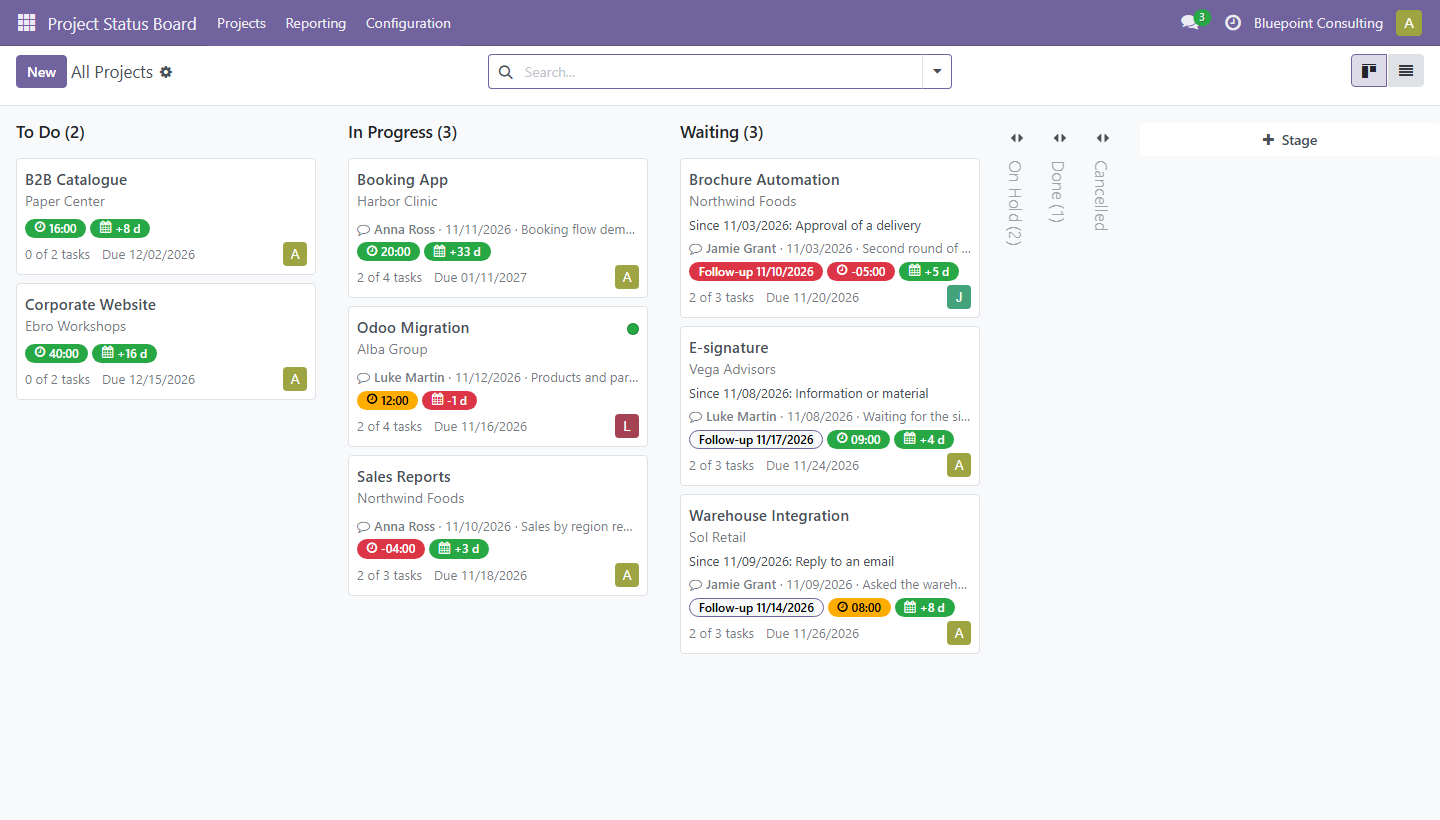
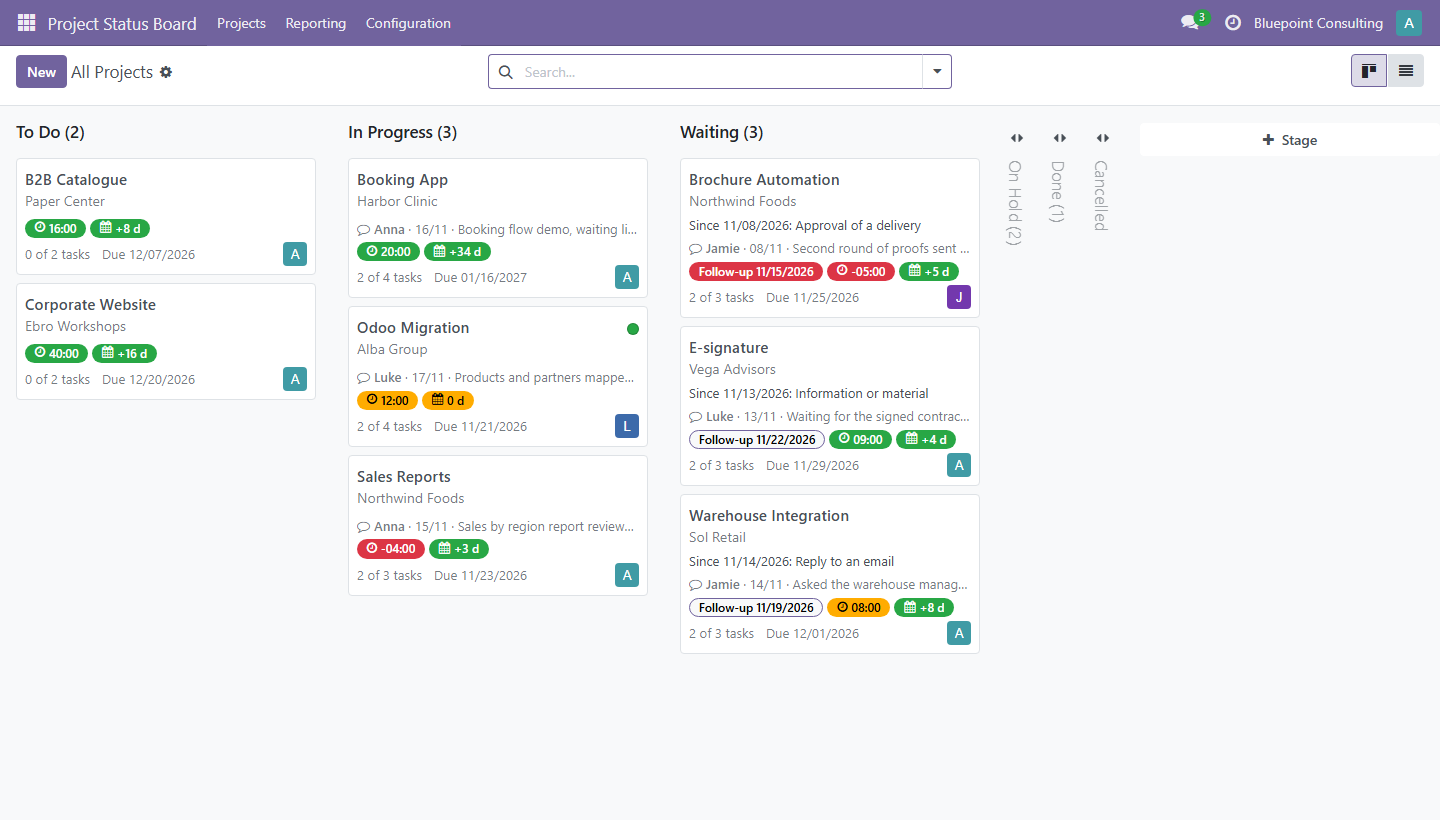
docs: ficha de la tienda con Cola por persona, Actividad del equipo y bolsas de horas (18.0)
Dos secciones nuevas en la ficha (Who is on what, con las capturas de Cola por persona y Actividad del equipo; Hour banks, con los filtros de exclusión) y el paso opcional de ajustes. Todas las capturas rehechas con las tarjetas actuales. Además, Actividad del equipo pone "51 min" en lugar de "0 h 51 min" con menos de una hora. Versión 18.0.0.1.8.

diff --git a/cimalor_project_status_board/static/description/index.html b/cimalor_project_status_board/static/description/index.html
@@ -157,6 +157,58 @@
 
 <section class="oe_container oe_dark">
   <div class="oe_row oe_spaced">
+    <div class="oe_span12" style="text-align: center">
+      <h2 class="oe_slogan">Who is on what, now and next</h2>
+      <p style="font-size: 16px; max-width: 760px; margin: 16px auto 0">
+        <em>Queue by Person</em> lays each person's queue on a time axis,
+        project by project, with the project's delivery date: red when their
+        part will end after it. No Gantt view, and no Enterprise module, needed.
+      </p>
+    </div>
+    <div class="oe_span12 oe_mt32">
+      <img
+        class="oe_picture oe_screenshot"
+        src="screenshot_queue.png"
+        alt="Queue by Person timeline with one row per project under each person and the delivery date of each project"
+      />
+    </div>
+    <div class="oe_span12 oe_mt32" style="text-align: center">
+      <p style="font-size: 16px; max-width: 760px; margin: 16px auto 0">
+        <em>Team Activity</em> shows what each person is on right now, from
+        their running timer, and the hours they logged by project over the last
+        five working days, each day against their capacity. A timer left running
+        since another day says since when.
+      </p>
+    </div>
+    <div class="oe_span12 oe_mt32">
+      <img
+        class="oe_picture oe_screenshot"
+        src="screenshot_activity.png"
+        alt="Team Activity with the running timer of each person and the hours logged by project over the last five working days"
+      />
+    </div>
+  </div>
+</section>
+
+<section class="oe_container">
+  <div class="oe_row oe_spaced">
+    <div class="oe_span12" style="text-align: center">
+      <h2 class="oe_slogan">Hour banks, kept apart</h2>
+      <p style="font-size: 16px; max-width: 760px; margin: 16px auto 0">
+        Two filters in <em>Settings › Project</em>.
+        <em>Excluded Projects</em> leaves projects such as internal ones out of
+        the boards, the reports and the workload. <em>Excluded Tasks</em> marks
+        the tasks that only hold an hour bank's balance: they never count as
+        work. Their project goes on hold by itself while no customer request is
+        open, back to <em>In Progress</em> with the next one, and its hours
+        margin counts the requests only.
+      </p>
+    </div>
+  </div>
+</section>
+
+<section class="oe_container oe_dark">
+  <div class="oe_row oe_spaced">
     <div class="oe_span6">
       <h2 class="oe_slogan" style="text-align: left">
         Your reasons, your words
@@ -196,7 +248,7 @@
 <section class="oe_container oe_dark">
   <div class="oe_row oe_spaced">
     <div class="oe_span12" style="text-align: center">
-      <h2 class="oe_slogan">Up and running in five steps</h2>
+      <h2 class="oe_slogan">Up and running in six steps</h2>
     </div>
     <div class="oe_span12">
       <ol
@@ -224,6 +276,11 @@
           planned hours.
         </li>
         <li>Open <em>Projects</em> and drag each project to its real state.</li>
+        <li>
+          Optional: set the <em>Excluded Projects</em> and
+          <em>Excluded Tasks</em> filters in <em>Settings › Project</em> for
+          internal projects and hour banks.
+        </li>
       </ol>
     </div>
   </div>

diff --git a/cimalor_project_status_board/static/src/team_activity/team_activity.js b/cimalor_project_status_board/static/src/team_activity/team_activity.js
@@ -202,6 +202,9 @@ export class TeamActivity extends Component {
 
   elapsedText(person) {
     const minutes = Math.floor(this.elapsed(person) * 60);
+    if (minutes < 60) {
+      return _t("%(minutes)s min", { minutes });
+    }
     return _t("%(hours)s h %(minutes)s min", {
       hours: Math.floor(minutes / 60),
       minutes: minutes % 60,

diff --git a/cimalor_project_status_board/__manifest__.py b/cimalor_project_status_board/__manifest__.py
@@ -1,6 +1,6 @@
 {
     "name": "Project Status Board",
-    "version": "18.0.0.1.7",
+    "version": "18.0.0.1.8",
     "category": "Services/Project",
     "summary": "Know which projects are moving, waiting or on hold, and why",
     "author": "Cimalor",
@@ -12,6 +12,8 @@
         "static/description/screenshot_date_risk.png",
         "static/description/screenshot_project_form.png",
         "static/description/screenshot_workload.png",
+        "static/description/screenshot_queue.png",
+        "static/description/screenshot_activity.png",
         "static/description/screenshot_capacity.png",
         "static/description/screenshot_reasons.png",
     ],

diff --git a/CHANGELOG.md b/CHANGELOG.md
@@ -108,6 +108,14 @@ Odoo version. The same functional version number means the same features in both
 
 ## cimalor_project_status_board — Project Status Board
 
+### [18.0.0.1.8] - 2026-11-17
+
+#### Changed
+
+- Store page: Queue by Person and Team Activity, with their screenshots, and the hour
+  bank settings; every screenshot retaken with the current cards.
+- Team Activity: a timer running for less than an hour reads "51 min", not "0 h 51 min".
+
 ### [18.0.0.1.7] - 2026-11-17
 
 #### Added
